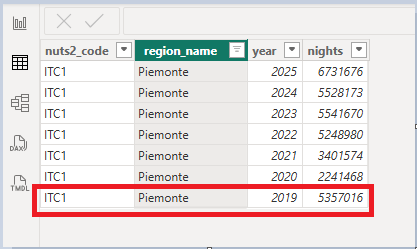
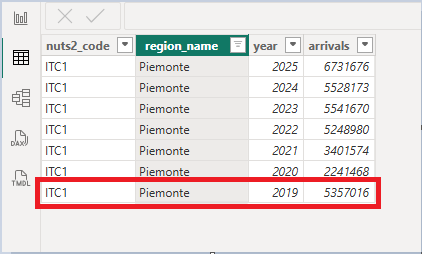
Fix Minors

diff --git a/README.md b/README.md
@@ -14,7 +14,7 @@ The main indicators used in this project are:
 
 All regions have a positive recovery index, with Puglia leading and the national average at +22%.
 
-![Dashboard Preview](./powerbi/screenshots/headline.png)
+![Headline Preview](./powerbi/screenshots/headline.png)
 
 ## Tools
 